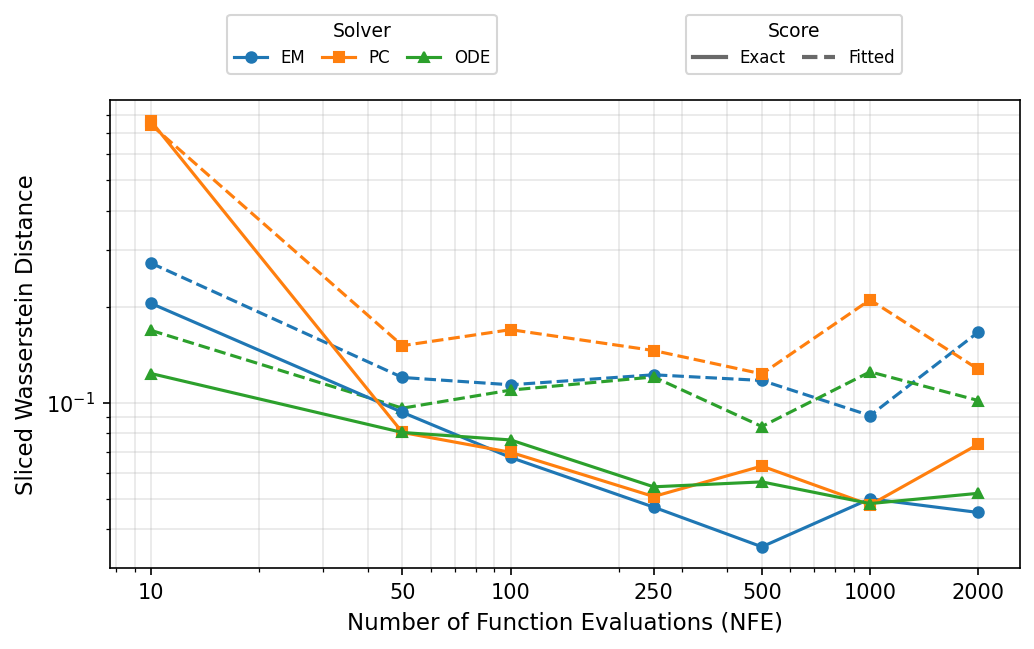
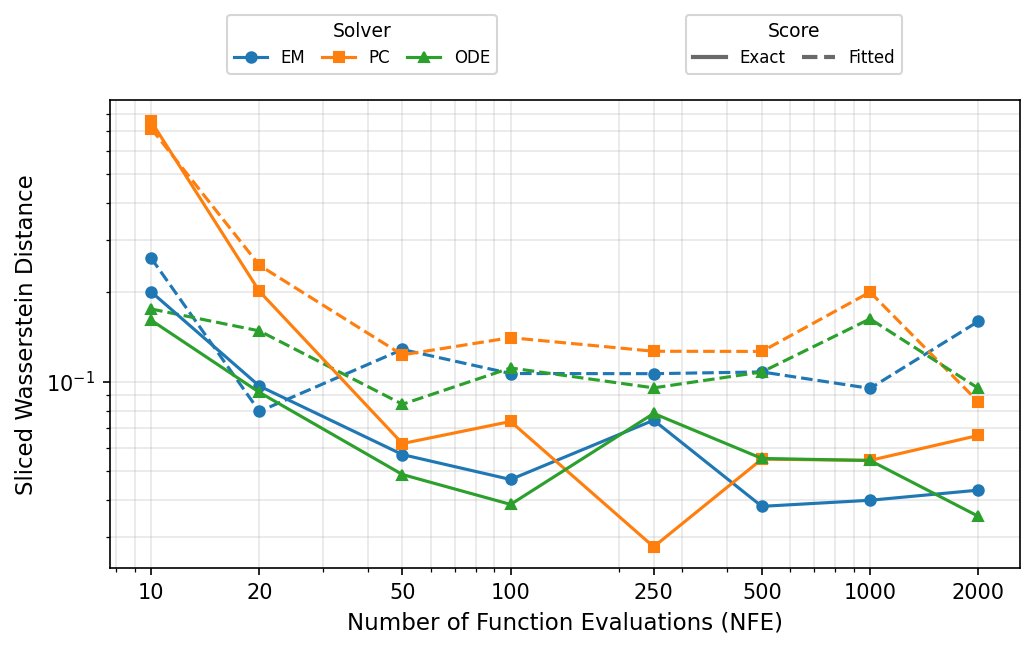
update results

diff --git a/notebook/plot_convergence_nfe.py b/notebook/plot_convergence_nfe.py
@@ -35,14 +35,14 @@ from utils.wasserstein import sliced_wasserstein
 # Experiment Setup
 # =============================================================================
 # NFE grid to sweep
-NFE_LIST    = [10, 50, 100, 250, 500, 1000, 2000]
+NFE_LIST    = [10, 20, 50, 100, 250, 500, 1000, 2000]
 
 # Sliced Wasserstein settings
 N_SLICES    = 1024    # number of random projections (more → less variance)
-SW_SEED     = 42     # projection seed for reproducibility
+SW_SEED     = 64     # projection seed for reproducibility
 
 # Reference distribution
-REF_N       = 5120   # samples drawn from true GMM as ground truth
+REF_N       = 4096   # samples drawn from true GMM as ground truth
 
 # Inference overrides (None → use value from vp_config.yaml)
 N_SAMPLES   = 5120   # generated samples per NFE point
